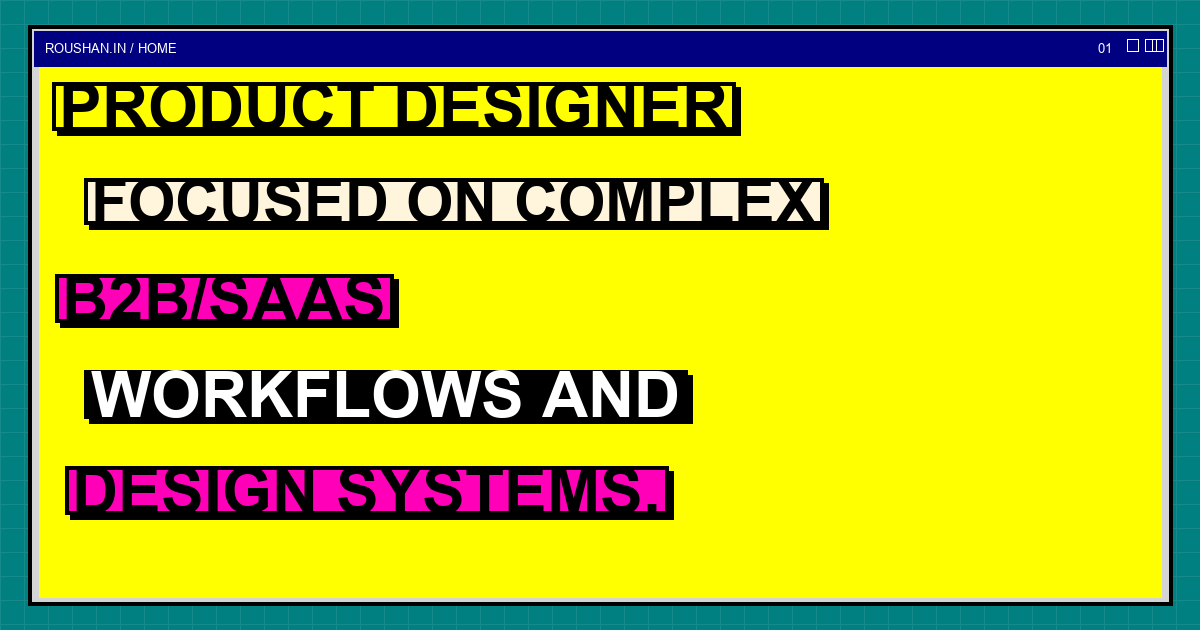
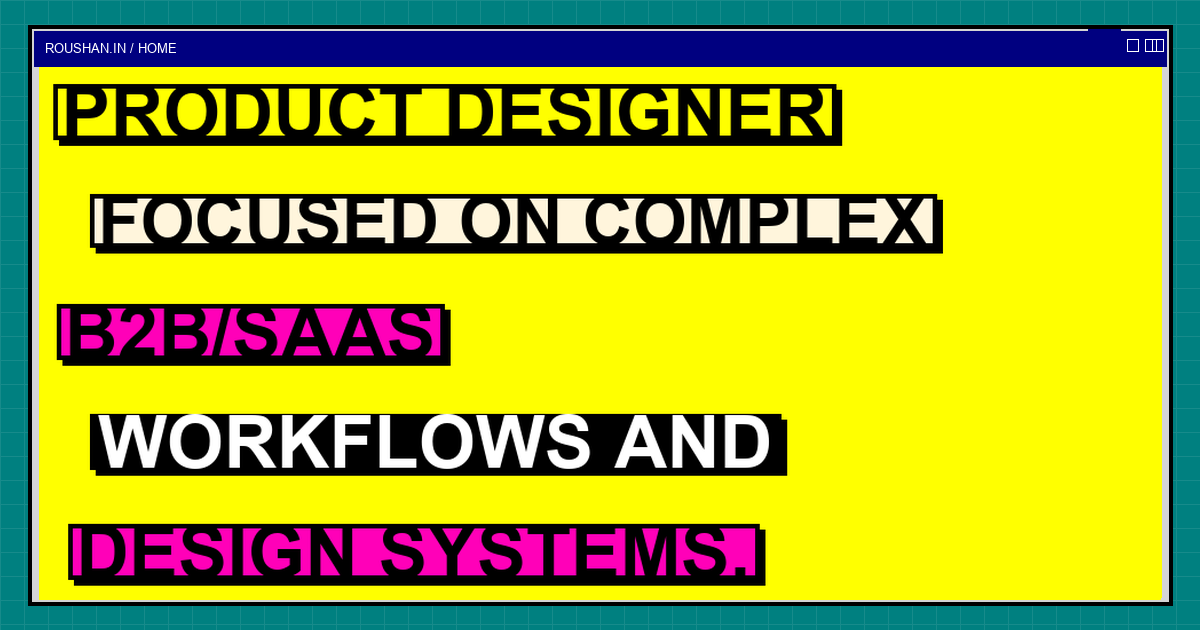
Polish portfolio home page and project previews

diff --git a/src/pages/AboutPage.tsx b/src/pages/AboutPage.tsx
@@ -19,7 +19,6 @@ export const AboutPage: React.FC = () => {
       <section className="about-hero-scroll-track pt-20 pb-0 md:pt-28 md:pb-0 max-w-6xl mx-auto px-6">
         <div className="retro-window-titlebar">
           <span>PROFILE.TXT</span>
-          <span aria-hidden="true">01 / BIO</span>
           <WindowControls />
         </div>
         <div ref={tvTrackRef} className="about-hero-layout relative grid grid-cols-1 md:grid-cols-12 gap-8 lg:gap-12 items-start">
@@ -68,7 +67,6 @@ export const AboutPage: React.FC = () => {
       <section className="about-quick-facts-section py-8 border-y border-slate-200 bg-[#fbfbfb]">
         <div className="retro-window-titlebar">
           <span>AT A GLANCE</span>
-          <span aria-hidden="true">02 / FACTS</span>
           <WindowControls />
         </div>
         <div className="max-w-6xl mx-auto px-6">
@@ -91,7 +89,6 @@ export const AboutPage: React.FC = () => {
       <section className="about-personal-section">
         <div className="retro-window-titlebar">
           <span>ABOUT.ROUSHAN</span>
-          <span aria-hidden="true">03 / BEYOND THE WORK</span>
           <WindowControls />
         </div>
         <div className="about-personal-body">
@@ -129,7 +126,6 @@ export const AboutPage: React.FC = () => {
       <section className="py-20 md:py-24 max-w-6xl mx-auto px-6">
         <div className="retro-window-titlebar">
           <span>TOOLS &amp; SKILLS</span>
-          <span aria-hidden="true">04 / TOOLKIT</span>
           <WindowControls />
         </div>
         <div className="mb-12 space-y-2">
@@ -193,7 +189,6 @@ export const AboutPage: React.FC = () => {
       <section className="py-20 md:py-24 max-w-6xl mx-auto px-6 border-t border-slate-200 space-y-20">
         <div className="retro-window-titlebar">
           <span>EXPERIENCE.LOG</span>
-          <span aria-hidden="true">05 / EXPERIENCE</span>
           <WindowControls />
         </div>
         <div className="space-y-8">
@@ -284,7 +279,6 @@ export const AboutPage: React.FC = () => {
       <section className="py-20 md:py-24 max-w-6xl mx-auto px-6 border-t border-slate-200 space-y-20">
         <div className="retro-window-titlebar">
           <span>EDUCATION.LOG</span>
-          <span aria-hidden="true">06 / EDUCATION</span>
           <WindowControls />
         </div>
         <div className="space-y-8">

diff --git a/src/components/PhoneMockup.tsx b/src/components/PhoneMockup.tsx
@@ -31,7 +31,7 @@ interface ProjectMockupProps {
  * 2. IntersectionObserver (250px margin) — begins buffering just before entering screen
  * 3. Auto-pause when scrolled out of view — frees GPU decode buffers and CPU
  * 4. Poster image placeholder — prevents layout shift and blank rectangles
- * 5. Smooth fade-in once video frame is decoded and ready
+ * 5. Smooth fade-in once video playback begins
  */
 export const LazyVideo: React.FC<{
   src: string;
@@ -45,7 +45,7 @@ export const LazyVideo: React.FC<{
   const videoRef = useRef<HTMLVideoElement>(null);
   const [inView, setInView] = useState(eager);
   const [posterReady, setPosterReady] = useState(!poster || eager);
-  const [isReady, setIsReady] = useState(false);
+  const [isPlaying, setIsPlaying] = useState(false);
   const objectFitClass = objectFit === 'contain' ? 'object-contain' : 'object-cover';
   useEffect(() => {
     const el = videoRef.current;
@@ -73,7 +73,7 @@ export const LazyVideo: React.FC<{
 
   useEffect(() => {
     setPosterReady(!poster || eager);
-    setIsReady(false);
+    setIsPlaying(false);
   }, [eager, poster, src]);
 
   useEffect(() => {
@@ -95,7 +95,7 @@ export const LazyVideo: React.FC<{
   return (
     <div className={`relative w-full h-full overflow-hidden rounded-[18px] bg-slate-100 sm:rounded-[22px] ${frameClassName}`}>
       {/* Poster background displayed while video is idle or buffering */}
-      {poster && !isReady && (
+      {poster && !isPlaying && (
         <img
           src={poster}
           alt={`${ariaLabel} thumbnail`}
@@ -117,10 +117,10 @@ export const LazyVideo: React.FC<{
         playsInline
         aria-label={ariaLabel}
         title={ariaLabel}
-        onCanPlay={() => setIsReady(true)}
-        onError={() => setIsReady(false)}
+        onPlaying={() => setIsPlaying(true)}
+        onError={() => setIsPlaying(false)}
         className={`w-full h-full ${objectFitClass} rounded-[18px] sm:rounded-[22px] transition-opacity duration-300 ${
-          isReady ? 'opacity-100' : 'opacity-0'
+          isPlaying ? 'opacity-100' : 'opacity-0'
         } ${className}`}
       />
     </div>

diff --git a/src/components/ProjectCard.tsx b/src/components/ProjectCard.tsx
@@ -46,7 +46,6 @@ export const ProjectCard: React.FC<ProjectCardProps> = ({
       <div className="retro-project-window">
         <div className="retro-window-titlebar">
           <span>{study.title}</span>
-          <span aria-hidden="true">CASE FILE</span>
           <WindowControls />
         </div>
         <a href={`/case-studies/${study.id}`} onClick={handleSelect} aria-label={`Read the ${study.title} case study`} className="retro-project-link group block cursor-pointer text-left text-black no-underline">
@@ -89,7 +88,13 @@ export const ProjectCard: React.FC<ProjectCardProps> = ({
                 className="h-full w-full rounded-xl object-contain transition-transform duration-700 ease-out motion-reduce:transition-none group-hover:scale-[1.02]"
               />
             ) : study.heroVideo ? (
-              <LazyVideo src={study.heroVideo} poster={study.heroImage} ariaLabel={`${study.title} project preview`} objectFit="contain" frameClassName="bg-transparent transition-transform duration-700 ease-out motion-reduce:transition-none group-hover:scale-[1.02] rounded-xl" />
+              <LazyVideo
+                src={study.heroVideo}
+                poster={study.heroImage}
+                ariaLabel={`${study.title} project preview`}
+                objectFit={study.id === 'naie' || study.id === 'maxlence' ? 'cover' : 'contain'}
+                frameClassName="bg-transparent transition-transform duration-700 ease-out motion-reduce:transition-none group-hover:scale-[1.02] rounded-xl"
+              />
             ) : (
               <img src={study.heroImage} alt={`${study.title} project preview`} referrerPolicy="no-referrer" loading="lazy" className="h-full w-full object-contain rounded-xl transition-transform duration-700 ease-out motion-reduce:transition-none group-hover:scale-[1.02]" />
             )}

diff --git a/src/index.css b/src/index.css
@@ -383,7 +383,7 @@ button:not(.retro-contact-window > button):active {
 }
 
 .home-hero-background {
-  height: calc(100svh - 76px);
+  height: calc(100svh - 76px + var(--dp-spacing-section-gap));
   margin-bottom: 0;
 }
 
@@ -601,7 +601,7 @@ button:not(.retro-contact-window > button):active {
   margin: 0;
   color: var(--dp-color-ink);
   font-family: var(--dp-typography-display);
-  font-size: clamp(32px, min(8.5vw, 8svh), 116px);
+  font-size: clamp(32px, min(8.5vw, 10.5svh), 140px);
   font-weight: 900;
   letter-spacing: -0.04em;
   line-height: 1.06;
@@ -1557,7 +1557,7 @@ button:not(.retro-contact-window > button):active {
   }
 
   .home-hero-background {
-    height: calc(100svh - 76px);
+    height: calc(100svh - 76px + var(--dp-spacing-section-gap));
   }
 
   .retro-hero-body {
@@ -1684,7 +1684,7 @@ button:not(.retro-contact-window > button):active {
   }
 
   .retro-hero-body h1 {
-    font-size: clamp(28px, min(9vw, 5svh), 44px);
+    font-size: clamp(36px, min(14vw, 8svh), 56px);
   }
 
   .retro-projects-heading {
@@ -1716,7 +1716,7 @@ button:not(.retro-contact-window > button):active {
 
 @media (max-width: 639px) {
   .home-hero-background {
-    height: calc(100svh - 64px);
+    height: calc(100svh - 64px + var(--dp-spacing-section-gap));
   }
 }
 

diff --git a/src/pages/HomePage.tsx b/src/pages/HomePage.tsx
@@ -27,7 +27,6 @@ export const HomePage = ({ caseStudies, onSelectCaseStudy }: HomePageProps) => {
         <div className="retro-window retro-hero-window">
           <div className="retro-window-titlebar">
             <span>ROUSHAN.IN / HOME</span>
-            <span aria-hidden="true">01</span>
             <WindowControls />
           </div>
           <div className="retro-hero-body">
@@ -51,7 +50,6 @@ export const HomePage = ({ caseStudies, onSelectCaseStudy }: HomePageProps) => {
       <aside className="retro-window retro-facts-window">
         <div className="retro-window-titlebar">
           <span>QUICK FACTS</span>
-          <span aria-hidden="true">INFO.DAT</span>
           <WindowControls />
         </div>
         <div className="retro-facts-body">
@@ -71,7 +69,6 @@ export const HomePage = ({ caseStudies, onSelectCaseStudy }: HomePageProps) => {
       <div className="retro-window retro-projects-window">
         <div className="retro-window-titlebar">
           <span>SELECTED WORKS</span>
-          <span aria-hidden="true">{String(caseStudies.length).padStart(2, '0')} PROJECTS</span>
           <WindowControls />
         </div>
         <div className="retro-projects-heading">

diff --git a/src/components/Footer.tsx b/src/components/Footer.tsx
@@ -22,7 +22,6 @@ export const Footer: React.FC = () => {
       <div className="flex w-full flex-col justify-between min-h-[380px]">
         <div className="retro-window-titlebar retro-footer-titlebar">
           <span>CONTACT / LINKS</span>
-          <span aria-hidden="true">END OF FILE</span>
           <WindowControls />
         </div>
         <div className="retro-footer-body">
